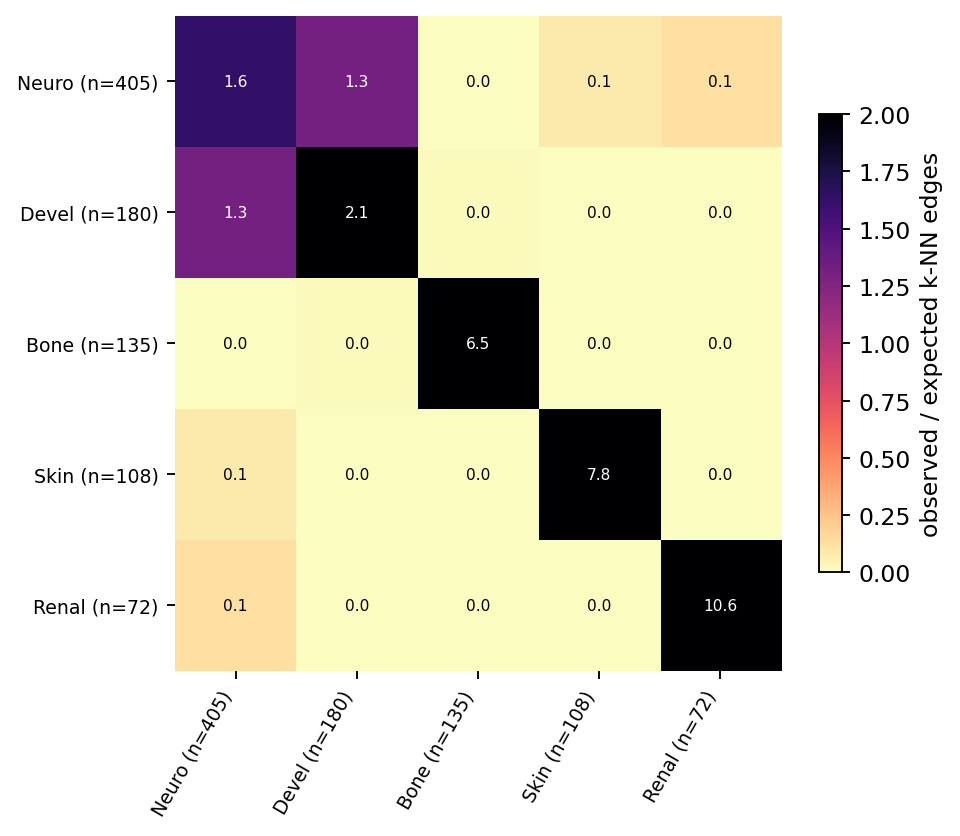
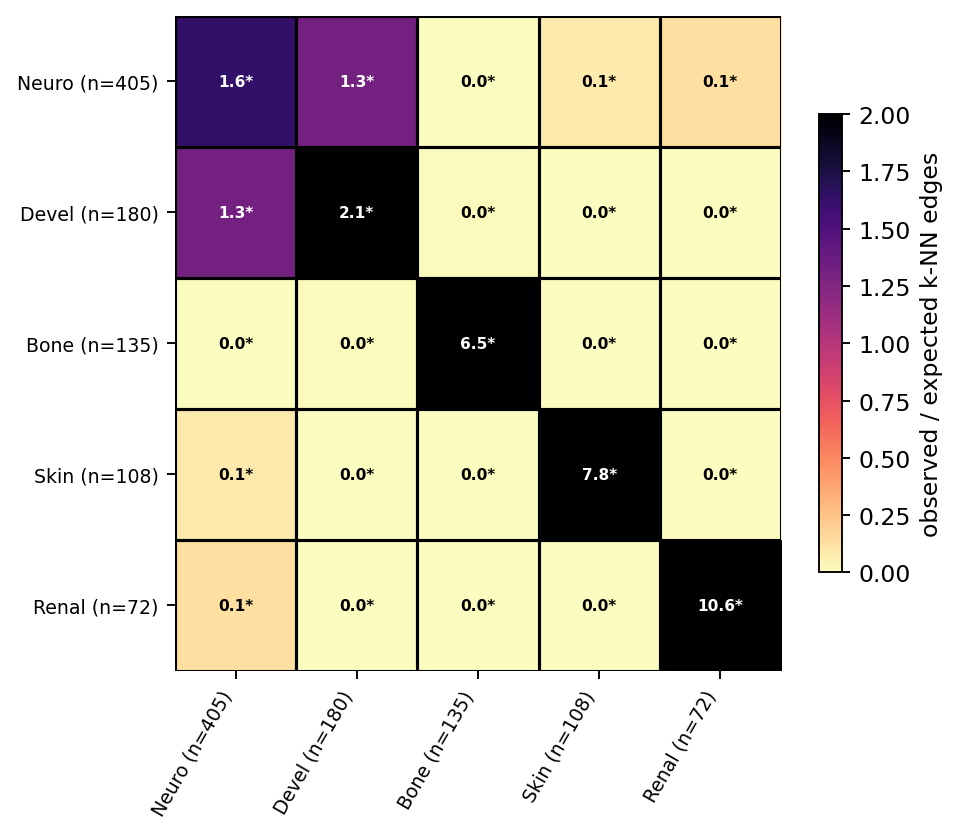
Permutation significance and bootstrap CIs for connectivity ratios (0.2.0)
- stats.permutation_test: shuffle labels over the fixed k-NN graph to get
  each pair's null distribution; reports null mean and 95% interval,
  one- and two-sided p-values, z-scores and Benjamini-Hochberg q-values
  across all pairs; returns a long-format table sorted by q
- stats.bootstrap_ratio: percentile interval for the ratio estimate from
  repeated patient subsamples
- heatmap can overlay significance (asterisk + outline where q < alpha)
- tests: null centres on 1, designed blends/islands recovered as
  enriched/depleted and significant, determinism, CI sanity

diff --git a/src/phenotopo/stats.py b/src/phenotopo/stats.py
@@ -1,0 +1,143 @@
+"""Inference for group connectivity: permutation significance and bootstrap CIs.
+
+``group_connectivity`` compares observed cross-group k-NN edges with an
+analytical expectation. That says *how far* from chance a ratio is, not whether
+it could have arisen by chance given the graph's actual structure and the group
+sizes. Two complementary answers:
+
+* :func:`permutation_test` - shuffle the group labels over the *fixed* graph
+  many times; the ratios obtained form the null distribution of each pair.
+  Gives p-values (with Benjamini-Hochberg correction across all pairs),
+  z-scores and a 95 % null interval.
+* :func:`bootstrap_ratio` - re-estimate the ratio on random 80 % subsamples of
+  patients; the percentile interval is a precision interval for the estimate.
+"""
+
+from __future__ import annotations
+
+import numpy as np
+import pandas as pd
+
+from .graph import group_connectivity
+
+
+def _ratio_from_members(rows, cols, data, member, m) -> np.ndarray:
+    observed = np.zeros((m, m), dtype=float)
+    np.add.at(observed, (member[rows], member[cols]), data)
+    observed = (observed + observed.T) / 2.0
+    degree = observed.sum(axis=1)
+    total = degree.sum()
+    with np.errstate(divide="ignore", invalid="ignore"):
+        expected = np.outer(degree, degree) / total
+        return np.where(expected > 0, observed / expected, 0.0)
+
+
+def benjamini_hochberg(p: np.ndarray) -> np.ndarray:
+    """BH-adjusted q-values for a 1-D array of p-values."""
+    p = np.asarray(p, dtype=float)
+    n = len(p)
+    order = np.argsort(p)
+    ranked = p[order] * n / (np.arange(n) + 1)
+    q = np.minimum.accumulate(ranked[::-1])[::-1]
+    out = np.empty(n)
+    out[order] = np.clip(q, 0, 1)
+    return out
+
+
+def permutation_test(
+    adjacency,
+    labels,
+    n_perm: int = 1000,
+    random_state: int = 0,
+    alpha: float = 0.05,
+) -> dict:
+    """Permutation null for every group-pair connectivity ratio.
+
+    Labels are permuted across patients (group sizes preserved, graph fixed) and
+    the ratio recomputed each time. For each pair the result reports the
+    observed ratio, the null mean and 95 % interval, one-sided p-values for
+    enrichment (``ratio > null``) and depletion, a two-sided p-value, a z-score
+    and Benjamini-Hochberg q-values across all unique pairs (diagonal included).
+
+    ``pairs`` is a long-format table sorted by q-value - the thing to report.
+    """
+    labels = np.asarray(labels)
+    groups = list(pd.unique(labels))
+    idx = {g: i for i, g in enumerate(groups)}
+    member = np.array([idx[g] for g in labels])
+    m = len(groups)
+    a = adjacency.tocoo()
+    rows, cols, data = a.row, a.col, a.data
+
+    observed = _ratio_from_members(rows, cols, data, member, m)
+    rng = np.random.RandomState(random_state)
+    null = np.empty((n_perm, m, m), dtype=float)
+    for b in range(n_perm):
+        null[b] = _ratio_from_members(rows, cols, data, rng.permutation(member), m)
+
+    null_mean = null.mean(axis=0)
+    null_sd = null.std(axis=0)
+    lo, hi = np.percentile(null, [2.5, 97.5], axis=0)
+    p_enrich = ((null >= observed).sum(axis=0) + 1) / (n_perm + 1)
+    p_deplete = ((null <= observed).sum(axis=0) + 1) / (n_perm + 1)
+    p_two = np.minimum(1.0, 2.0 * np.minimum(p_enrich, p_deplete))
+    with np.errstate(divide="ignore", invalid="ignore"):
+        z = np.where(null_sd > 0, (observed - null_mean) / null_sd, 0.0)
+
+    iu = np.triu_indices(m)
+    q_flat = benjamini_hochberg(p_two[iu])
+    q = np.zeros((m, m)); q[iu] = q_flat; q = np.maximum(q, q.T)
+
+    def df(x):
+        return pd.DataFrame(x, index=groups, columns=groups)
+
+    rows_out = []
+    for k, (i, j) in enumerate(zip(*iu)):
+        rows_out.append({
+            "group_a": groups[i], "group_b": groups[j], "ratio": float(observed[i, j]),
+            "null_mean": float(null_mean[i, j]), "null_lo95": float(lo[i, j]), "null_hi95": float(hi[i, j]),
+            "z": float(z[i, j]), "p_enrich": float(p_enrich[i, j]), "p_deplete": float(p_deplete[i, j]),
+            "p_two_sided": float(p_two[i, j]), "q_BH": float(q_flat[k]),
+            "direction": "enriched" if observed[i, j] > null_mean[i, j] else "depleted",
+            "significant": bool(q_flat[k] < alpha),
+        })
+    pairs = pd.DataFrame(rows_out).sort_values("q_BH").reset_index(drop=True)
+    return {
+        "ratio": df(observed), "null_mean": df(null_mean), "null_lo95": df(lo), "null_hi95": df(hi),
+        "z": df(z), "p_two_sided": df(p_two), "q_BH": df(q), "pairs": pairs,
+        "n_perm": n_perm, "alpha": alpha, "labels": groups,
+    }
+
+
+def bootstrap_ratio(
+    adjacency,
+    labels,
+    n_boot: int = 300,
+    subsample: float = 0.8,
+    random_state: int = 0,
+) -> dict:
+    """Percentile interval for each ratio from repeated patient subsamples.
+
+    Answers "how precisely is this ratio estimated?" (as opposed to the
+    permutation test's "could it be chance?"). Groups that vanish from a
+    subsample contribute nothing for that draw.
+    """
+    labels = np.asarray(labels)
+    groups = list(pd.unique(labels))
+    n = adjacency.shape[0]
+    size = int(round(subsample * n))
+    rng = np.random.RandomState(random_state)
+    adjacency = adjacency.tocsr()
+    draws = np.full((n_boot, len(groups), len(groups)), np.nan)
+    gi = {g: i for i, g in enumerate(groups)}
+    for b in range(n_boot):
+        take = np.sort(rng.choice(n, size, replace=False))
+        sub = group_connectivity(adjacency[take][:, take], labels[take])
+        r = sub["ratio"]
+        for a in r.index:
+            for c in r.columns:
+                draws[b, gi[a], gi[c]] = r.loc[a, c]
+    lo, hi = np.nanpercentile(draws, [2.5, 97.5], axis=0)
+    df = lambda x: pd.DataFrame(x, index=groups, columns=groups)
+    return {"ci_lo95": df(lo), "ci_hi95": df(hi), "median": df(np.nanmedian(draws, axis=0)),
+            "n_boot": n_boot, "subsample": subsample, "labels": groups}

diff --git a/tests/test_stats.py b/tests/test_stats.py
@@ -1,0 +1,52 @@
+import numpy as np
+
+from phenotopo import benjamini_hochberg, bootstrap_ratio, group_connectivity, knn_graph, permutation_test
+from phenotopo.data import synthetic_cohort
+
+
+def _setup():
+    emb, labels, d = synthetic_cohort(n=600, seed=0)
+    return knn_graph(distance=d, k=15), labels
+
+
+def test_bh_is_monotone_and_bounded():
+    q = benjamini_hochberg(np.array([0.001, 0.02, 0.5, 0.9]))
+    assert np.all((q >= 0) & (q <= 1))
+    assert q[0] <= q[1] <= q[2] <= q[3]
+
+
+def test_permutation_null_centres_on_one():
+    adj, labels = _setup()
+    res = permutation_test(adj, labels, n_perm=200, random_state=0)
+    off = res["null_mean"].to_numpy()[~np.eye(5, dtype=bool)]
+    assert np.all(np.abs(off - 1.0) < 0.25)
+
+
+def test_permutation_recovers_designed_structure():
+    adj, labels = _setup()
+    res = permutation_test(adj, labels, n_perm=300, random_state=1)
+    pairs = res["pairs"].set_index(["group_a", "group_b"])
+    def row(a, b):
+        return pairs.loc[(a, b)] if (a, b) in pairs.index else pairs.loc[(b, a)]
+    blend = row("Neuro", "Devel"); island = row("Neuro", "Bone")
+    assert blend["direction"] == "enriched" and blend["significant"]
+    assert island["direction"] == "depleted" and island["significant"]
+    assert blend["ratio"] > blend["null_hi95"]
+    assert island["ratio"] < island["null_lo95"]
+    assert res["ratio"].equals(group_connectivity(adj, labels)["ratio"])
+
+
+def test_permutation_is_deterministic():
+    adj, labels = _setup()
+    a = permutation_test(adj, labels, n_perm=50, random_state=3)["pairs"]
+    b = permutation_test(adj, labels, n_perm=50, random_state=3)["pairs"]
+    assert a.equals(b)
+
+
+def test_bootstrap_interval_contains_estimate_for_large_groups():
+    adj, labels = _setup()
+    point = group_connectivity(adj, labels)["ratio"]
+    ci = bootstrap_ratio(adj, labels, n_boot=40, random_state=0)
+    for g in ["Neuro", "Devel", "Bone"]:
+        assert ci["ci_lo95"].loc[g, g] <= point.loc[g, g] * 1.05
+        assert ci["ci_hi95"].loc[g, g] >= point.loc[g, g] * 0.95

diff --git a/src/phenotopo/layout.py b/src/phenotopo/layout.py
@@ -205,6 +205,8 @@ def plot_connectivity_heatmap(
     vmax: float | None = None,
     ax=None,
     fontsize: float = 8,
+    significance=None,
+    alpha: float = 0.05,
 ):
     """Group × group connectivity ratio as a heatmap.
 
@@ -212,6 +214,10 @@ def plot_connectivity_heatmap(
     shown, the diagonal (self-connectivity) tells how cohesive a group is, and
     values are printed in the cells. ``min_size`` drops small groups whose
     expected edge counts are tiny and whose ratios are therefore unstable.
+
+    Pass the result of :func:`phenotopo.stats.permutation_test` as
+    ``significance`` to mark cells with ``q_BH < alpha`` (a black outline and an
+    asterisk) - the ratios that survive multiple-testing correction.
     """
     import matplotlib.pyplot as plt
 
@@ -225,11 +231,16 @@ def plot_connectivity_heatmap(
     labs = [f"{g} (n={sizes[g]})" for g in order]
     ax.set_xticklabels(labs, rotation=60, ha="right", fontsize=fontsize)
     ax.set_yticklabels(labs, fontsize=fontsize)
+    qdf = significance["q_BH"] if significance is not None else None
     for i in range(len(order)):
         for j in range(len(order)):
             v = m[i, j]
-            ax.text(j, i, f"{v:.1f}", ha="center", va="center", fontsize=fontsize - 1.5,
+            sig = qdf is not None and float(qdf.loc[order[i], order[j]]) < alpha
+            ax.text(j, i, f"{v:.1f}" + ("*" if sig else ""), ha="center", va="center",
+                    fontsize=fontsize - 1.5, fontweight="bold" if sig else "normal",
                     color="white" if v > 0.6 * top else "black")
+            if sig:
+                ax.add_patch(plt.Rectangle((j - 0.5, i - 0.5), 1, 1, fill=False, ec="black", lw=1.3))
     ax.spines[["top", "right", "left", "bottom"]].set_visible(False)
     cb = plt.colorbar(im, ax=ax, shrink=0.7); cb.set_label("observed / expected k-NN edges")
     return ax

diff --git a/src/phenotopo/__init__.py b/src/phenotopo/__init__.py
@@ -12,7 +12,9 @@ continuum case:
 * :func:`plot_small_multiples` - one panel per group instead of a 20-colour legend;
 * :mod:`phenotopo.hyperbolic` - a Poincaré-disk view in which phenotyping
   *specificity* becomes a radial axis;
-* :mod:`phenotopo.mapper` - a topological (Mapper) graph of the cohort's shape.
+* :mod:`phenotopo.mapper` - a topological (Mapper) graph of the cohort's shape;
+* :mod:`phenotopo.stats` - permutation significance and bootstrap intervals for the
+  connectivity ratios, so a "2.6" comes with a p-value and a CI.
 
 Inputs are deliberately minimal: a distance or feature matrix, group labels and
 (optionally) any 2-D embedding you already trust.
@@ -20,11 +22,13 @@ Inputs are deliberately minimal: a distance or feature matrix, group labels and
 
 from .graph import group_centroids, group_connectivity, knn_graph
 from .layout import default_palette, plot_connectivity, plot_connectivity_heatmap, plot_density, plot_small_multiples
-from . import data, hyperbolic, mapper
+from . import data, hyperbolic, mapper, stats
+from .stats import benjamini_hochberg, bootstrap_ratio, permutation_test
 
-__version__ = "0.1.0"
+__version__ = "0.2.0"
 __all__ = [
     "knn_graph", "group_connectivity", "group_centroids",
     "plot_connectivity", "plot_connectivity_heatmap", "plot_density", "plot_small_multiples", "default_palette",
-    "data", "hyperbolic", "mapper", "__version__",
+    "data", "hyperbolic", "mapper", "stats",
+    "permutation_test", "bootstrap_ratio", "benjamini_hochberg", "__version__",
 ]

diff --git a/examples/quickstart.py b/examples/quickstart.py
@@ -17,6 +17,7 @@ import numpy as np
 
 from phenotopo import (
     group_connectivity,
+    permutation_test,
     plot_connectivity_heatmap,
     knn_graph,
     plot_connectivity,
@@ -43,7 +44,10 @@ conn = group_connectivity(knn_graph(distance=distance, k=15), labels)
 print("\nconnectivity (observed / expected k-NN edges):")
 print(conn["ratio"].round(2).to_string())
 save(plot_connectivity(conn, embedding=emb, labels=labels, min_ratio=0.5), "connectivity.png")
-save(plot_connectivity_heatmap(conn), "connectivity_heatmap.png")
+sig = permutation_test(knn_graph(distance=distance, k=15), labels, n_perm=500, random_state=0)
+print("\nsignificant pairs after BH correction:")
+print(sig["pairs"][sig["pairs"]["significant"]][["group_a", "group_b", "ratio", "null_lo95", "null_hi95", "q_BH", "direction"]].round(3).to_string(index=False))
+save(plot_connectivity_heatmap(conn, significance=sig), "connectivity_heatmap.png")
 
 # 2. density contours: overlap made visible
 save(plot_density(emb, labels, levels=(0.5, 0.85)), "density.png")

diff --git a/README.md b/README.md
@@ -71,11 +71,22 @@ including the *separated* ones (`ratio < 1`), and the diagonal reports how
 cohesive each group is:
 
 ```python
-from phenotopo import plot_connectivity_heatmap
-plot_connectivity_heatmap(conn, min_size=30)
+from phenotopo import plot_connectivity_heatmap, permutation_test
+
+sig = permutation_test(knn_graph(distance=D, k=15), labels, n_perm=1000)
+plot_connectivity_heatmap(conn, min_size=30, significance=sig)   # * = q < 0.05
+sig["pairs"]                                                     # ratio, null interval, p, q, z per pair
 ```
 
 <p align="center"><img src="examples/figures/connectivity_heatmap.png" width="560"></p>
+
+A ratio is only a number until it comes with uncertainty. `permutation_test`
+shuffles the group labels over the *fixed* k-NN graph (group sizes preserved),
+recomputes every ratio each time, and reports for each pair the null mean and
+95 % interval, one- and two-sided p-values, a z-score and Benjamini–Hochberg
+q-values across all pairs. Cells marked `*` survive multiple-testing correction.
+`bootstrap_ratio` adds a percentile interval for the estimate itself from
+repeated patient subsamples.
 
 ### 2 · Density contours
 
@@ -160,6 +171,7 @@ behind modularity), so large groups are not rewarded merely for being large.
 | `phenotopo.layout` | `plot_connectivity`, `plot_connectivity_heatmap`, `plot_density`, `plot_small_multiples`, `default_palette` |
 | `phenotopo.hyperbolic` | `poincare_terms`, `einstein_midpoint`, `place_patients`, `radial_specificity`, `plot_disk` |
 | `phenotopo.mapper` | `mapper_graph`, `node_values`, `plot_mapper` |
+| `phenotopo.stats` | `permutation_test`, `bootstrap_ratio`, `benjamini_hochberg` |
 | `phenotopo.data` | `synthetic_cohort`, `synthetic_hierarchy`, `synthetic_term_lists` |
 
 ## Tests

diff --git a/CHANGELOG.md b/CHANGELOG.md
@@ -2,6 +2,14 @@
 
 Format follows [Keep a Changelog](https://keepachangelog.com/); versioning is [SemVer](https://semver.org/).
 
+## [0.2.0] — 2026-09-03
+
+### Added
+- `stats.permutation_test`: label-permutation null for every connectivity ratio
+  (p-values, BH q-values, z-scores, 95 % null interval), `stats.bootstrap_ratio`
+  (subsampling percentile CI), significance overlay on the connectivity heatmap.
+- `plot_connectivity_heatmap`; optional adjustText label repulsion.
+
 ## [0.1.0] — 2026-09-03
 
 ### Added
